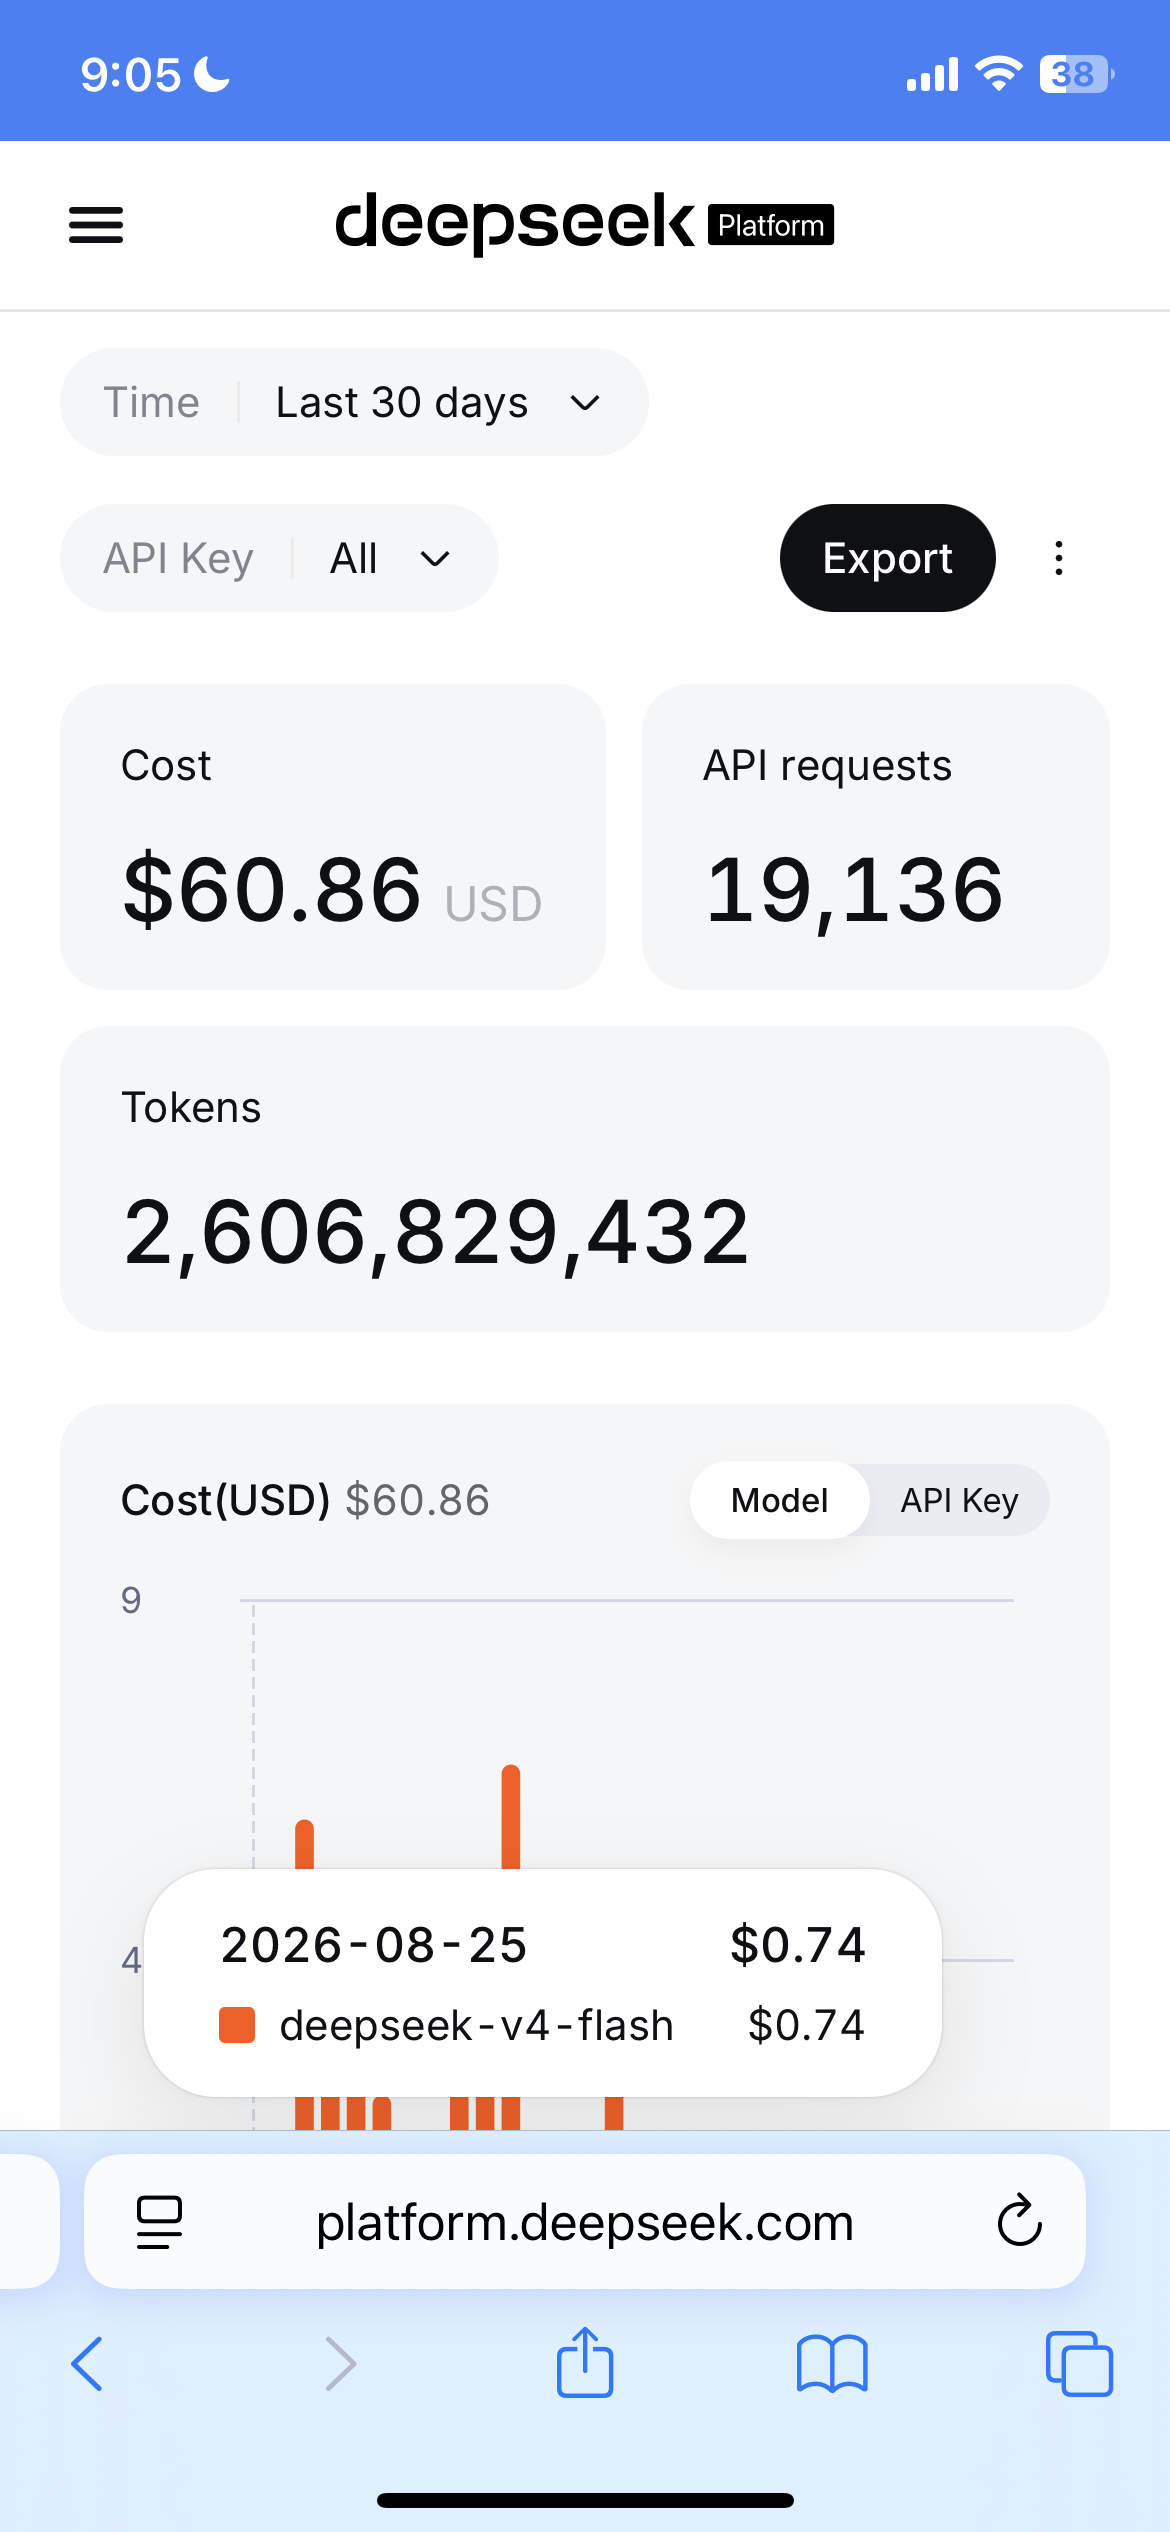
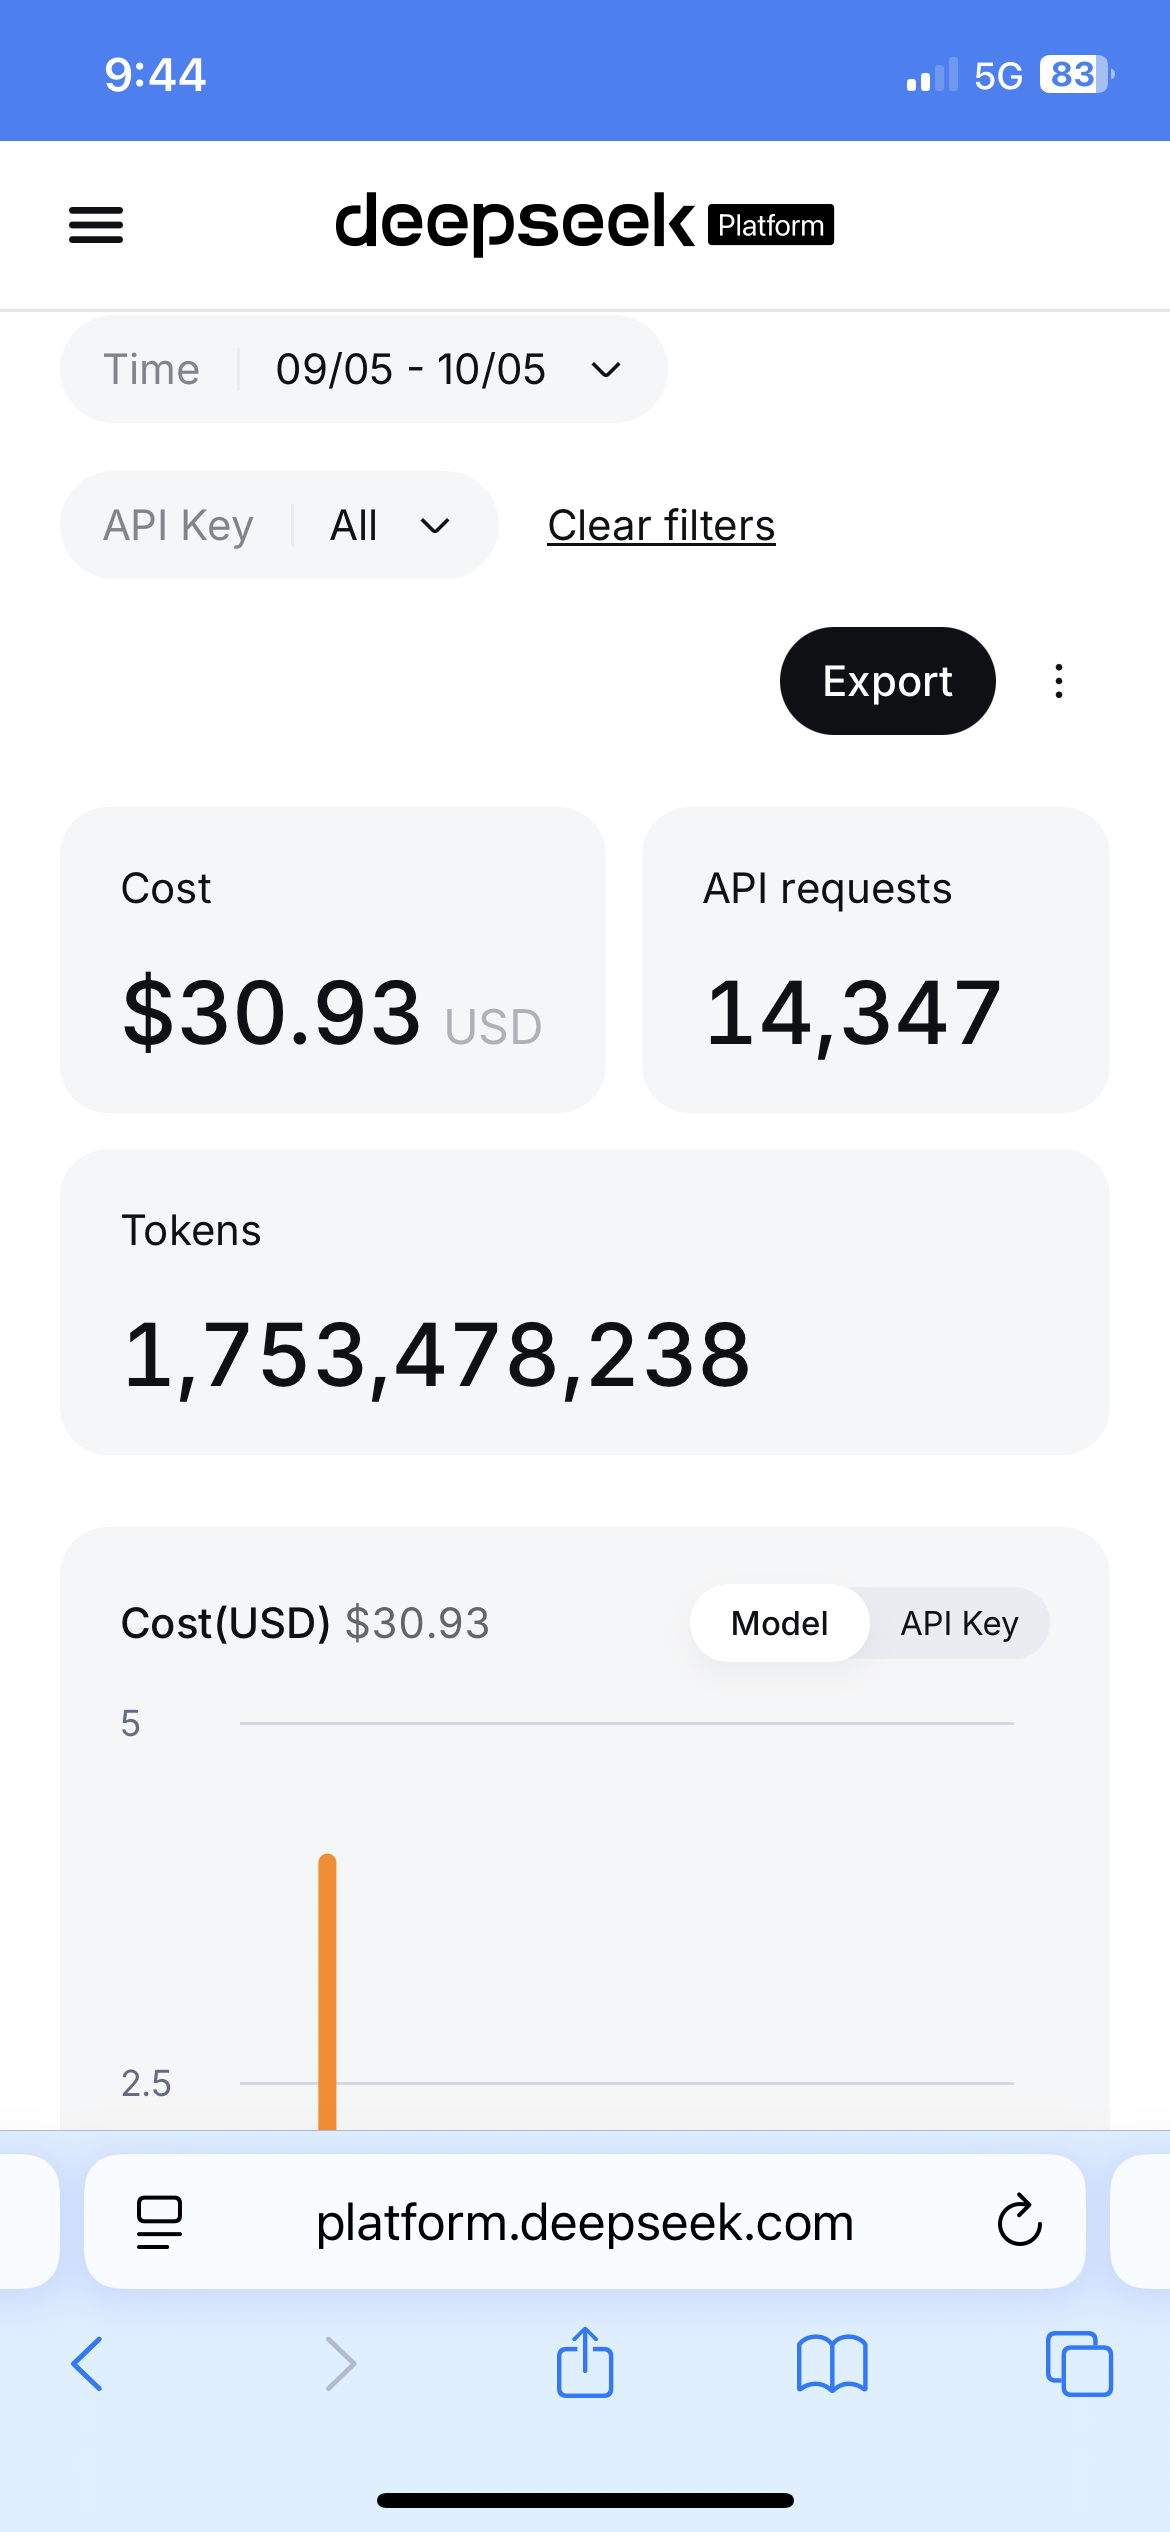
Cost post: DeepSeek meter -> $30.93 (normal setup $50.93, observed $135.00); swap receipt

diff --git a/src/content/blog/cost-to-run-an-agent.md b/src/content/blog/cost-to-run-an-agent.md
@@ -1,8 +1,8 @@
 ---
 title: "How Much Does It Cost to Run an AI Agent? My 30-Day Receipt"
-description: "My normal setup cost $38.29: a $20 ChatGPT premium subscription plus $18.29 of metered DeepSeek. Another $84.07 was optional premium experimentation. Here is what each number measures, which work belongs on each meter, and how I keep the bill bounded."
+description: "My normal setup cost $50.93: a $20 ChatGPT premium subscription plus $30.93 of metered DeepSeek. Another $84.07 was optional premium experimentation. Here is what each number measures, which work belongs on each meter, and how I keep the bill bounded."
 seoTitle: "How Much Does It Cost to Run an AI Agent? A 30-Day Cost Breakdown"
-socialTitle: "How much does it cost to run an agent? About $38.29 a month \u2014 and the scary spend was the lane I chose."
+socialTitle: "How much does it cost to run an agent? About $50.93 a month \u2014 and the scary spend was the lane I chose."
 pubDate: 'Oct 5, 2026'
 updatedDate: 'Oct 5, 2026'
 ogCategory: 'Field Note \u00b7 AI & Engineering'
@@ -17,19 +17,19 @@ related:
     url: "/blog/hermes-vs-openclaw/"
 faq:
   - question: "How much does it cost to run an AI agent per month?"
-    answer: "My normal operating setup costs $38.29 over a 30-day window: a $20 ChatGPT premium subscription plus $18.29 of metered DeepSeek. Optional premium experimentation added $84.07 of prepaid Grok credit on top."
-  - question: "Why did 509 million tokens cost only $18.29?"
+    answer: "My normal operating setup costs $50.93 over a 30-day window: a $20 ChatGPT premium subscription plus $30.93 of metered DeepSeek. Optional premium experimentation added $84.07 of prepaid Grok credit on top."
+  - question: "Why did 509 million tokens cost only $30.93?"
     answer: "Because 95% of the traffic was reused context. DeepSeek recorded 487.7 million cache reads against 22.4 million fresh input and 7.0 million output tokens \u2014 and cache reads cost a fraction of fresh input."
   - question: "Is OpenClaw free to run?"
-    answer: "The harnesses are free and open source; the cost is the models behind them. In this setup the normal route ran about $38.29 a month, including the ChatGPT plan I already had."
+    answer: "The harnesses are free and open source; the cost is the models behind them. In this setup the normal route ran about $50.93 a month, including the ChatGPT plan I already had."
   - question: "What\u2019s the biggest hidden cost of running an agent?"
     answer: "Scheduled jobs and retry loops. Cron produced 178.5 million tokens \u2014 34% of the gross total \u2014 across 137 runs and 17 jobs, and three jobs were 79% of that. A loop that fails without advancing its cursor just buys the same failure again."
   - question: "How do you keep agent costs from getting out of control?"
     answer: "Three controls: turn auto-recharge off, cap loops and advance failures, and review unattended jobs monthly by tokens and by whether anyone read the output."
 ---
-The short answer is **$38.29 a month** for my normal operating setup: my **$20 ChatGPT premium subscription** plus **$18.29 of metered DeepSeek use**. I already had the ChatGPT subscription, so if you run the same plan, the number that changes for you is the **$18.29** meter. I use the premium model until it rate-limits, then fall back to DeepSeek V4 for the rest.
+The short answer is **$50.93 a month** for my normal operating setup: my **$20 ChatGPT premium subscription** plus **$30.93 of metered DeepSeek use**. I already had the ChatGPT subscription, so if you run the same plan, the number that changes for you is the **$30.93** meter. I use the premium model until it rate-limits, then fall back to DeepSeek V4 for the rest.
 
-I also used **$84.07 of prepaid Grok credit** in an optional experimental lane. Put the three lines together and the observed usage is **$122.36** — subscription access, metered use, and prepaid credit, each on its own basis.
+I also used **$84.07 of prepaid Grok credit** in an optional experimental lane. Put the three lines together and the observed usage is **$135.00** — subscription access, metered use, and prepaid credit, each on its own basis.
 
 These are my numbers, from **August 24 through September 23, 2026**. They cover model and subscription usage; hosting, storage, monitoring, and my time sit outside them.
 
@@ -40,10 +40,10 @@ The surprising part: **509 million tokens were not the expensive part.** The bil
 | Cost line | Basis | Amount | What it means |
 |---|---|---:|---|
 | ChatGPT premium subscription | Monthly access cost | $20.00 | The plan I already had; counted here because it powers the setup |
-| DeepSeek V4 | Metered use in this window | $18.29 | The pay-per-token fallback I switch to at the plan's rate limit |
-| **Normal operating setup** | Plan + metered use | **$38.29 / month** | The number to count when the plan belongs in your agent budget |
+| DeepSeek V4 | Metered use in this window | $30.93 | The pay-per-token fallback I switch to at the plan's rate limit |
+| **Normal operating setup** | Plan + metered use | **$50.93 / month** | The number to count when the plan belongs in your agent budget |
 | Grok experimental lane | Provider usage against prepaid credit | $84.07 | Optional image/design, search, reasoning, and prompt experimentation |
-| **Observed model/subscription usage** | Three lines, three bases | **$122.36** | Accounting total across mixed bases |
+| **Observed model/subscription usage** | Three lines, three bases | **$135.00** | Accounting total across mixed bases |
 
 The window included 23 published posts, 110 images, 86 PDFs, 288 sessions, and 9,801 tool calls — the workloads behind these period receipts. I report the period rather than a per-post figure, because other work shared the same receipts.
 
@@ -57,7 +57,7 @@ Price the route, not the agent. I run all of this on OpenClaw and Hermes; the ha
 | Polished-image experiments, plus web/X search or reasoning routed to Grok | A separate premium budget; use a cheaper model for good-enough work |
 | Scheduled jobs and retries | A multiplier on whichever route they use — cap and audit it |
 
-## Why 509 million tokens cost $18.29
+## Why 509 million tokens cost $30.93
 
 The normal route was cheap because it was mostly reused context.
 
@@ -65,7 +65,7 @@ DeepSeek recorded **509.1 million tokens**: 22.4 million input, 7.0 million outp
 
 If you are on a metered provider that bills cached context cheaply, inspect your token mix before you react to the token total. Fresh context on every turn, more output, or a different provider means a different bill.
 
-![DeepSeek platform usage — trailing 30 days: 19,136 requests, 2.6B tokens, $60.86](/post-assets/cost-to-run-an-agent/deepseek-usage.png)
+![DeepSeek platform usage for the trailing 30 days](/post-assets/cost-to-run-an-agent/deepseek-usage.png)
 *The DeepSeek meter, straight from the platform dashboard.*
 
 ## What made the observed month expensive
